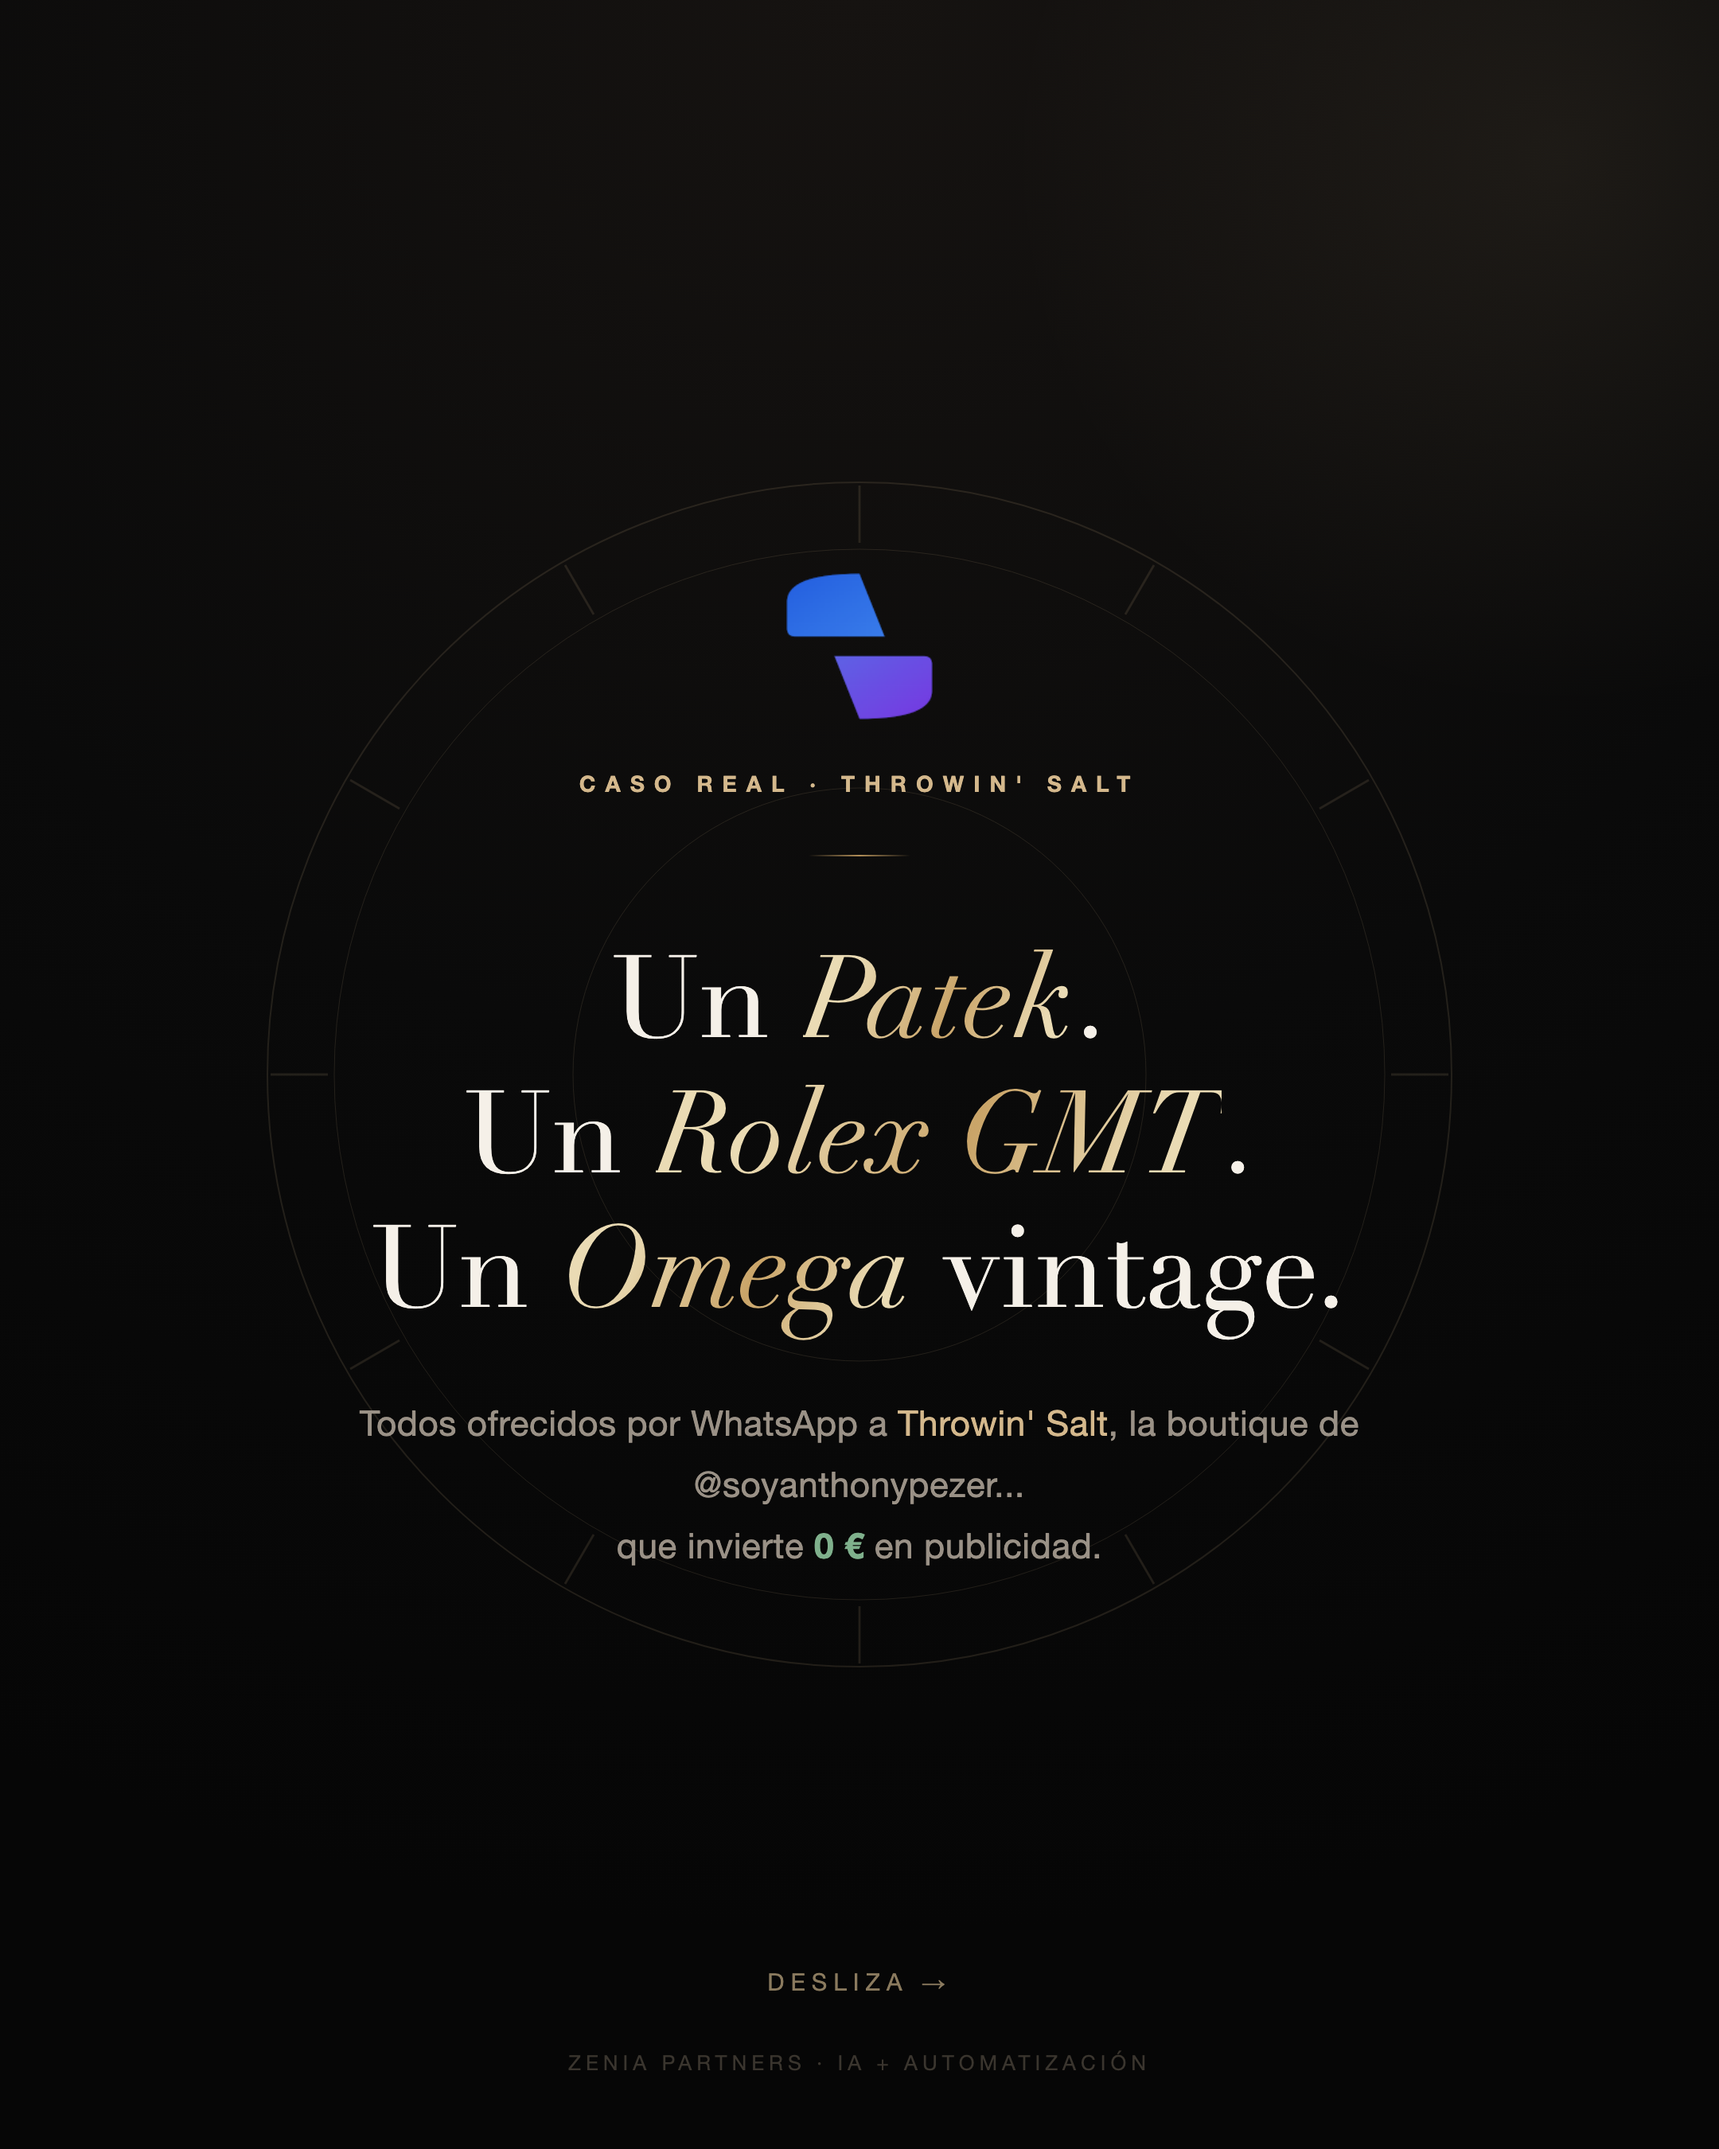
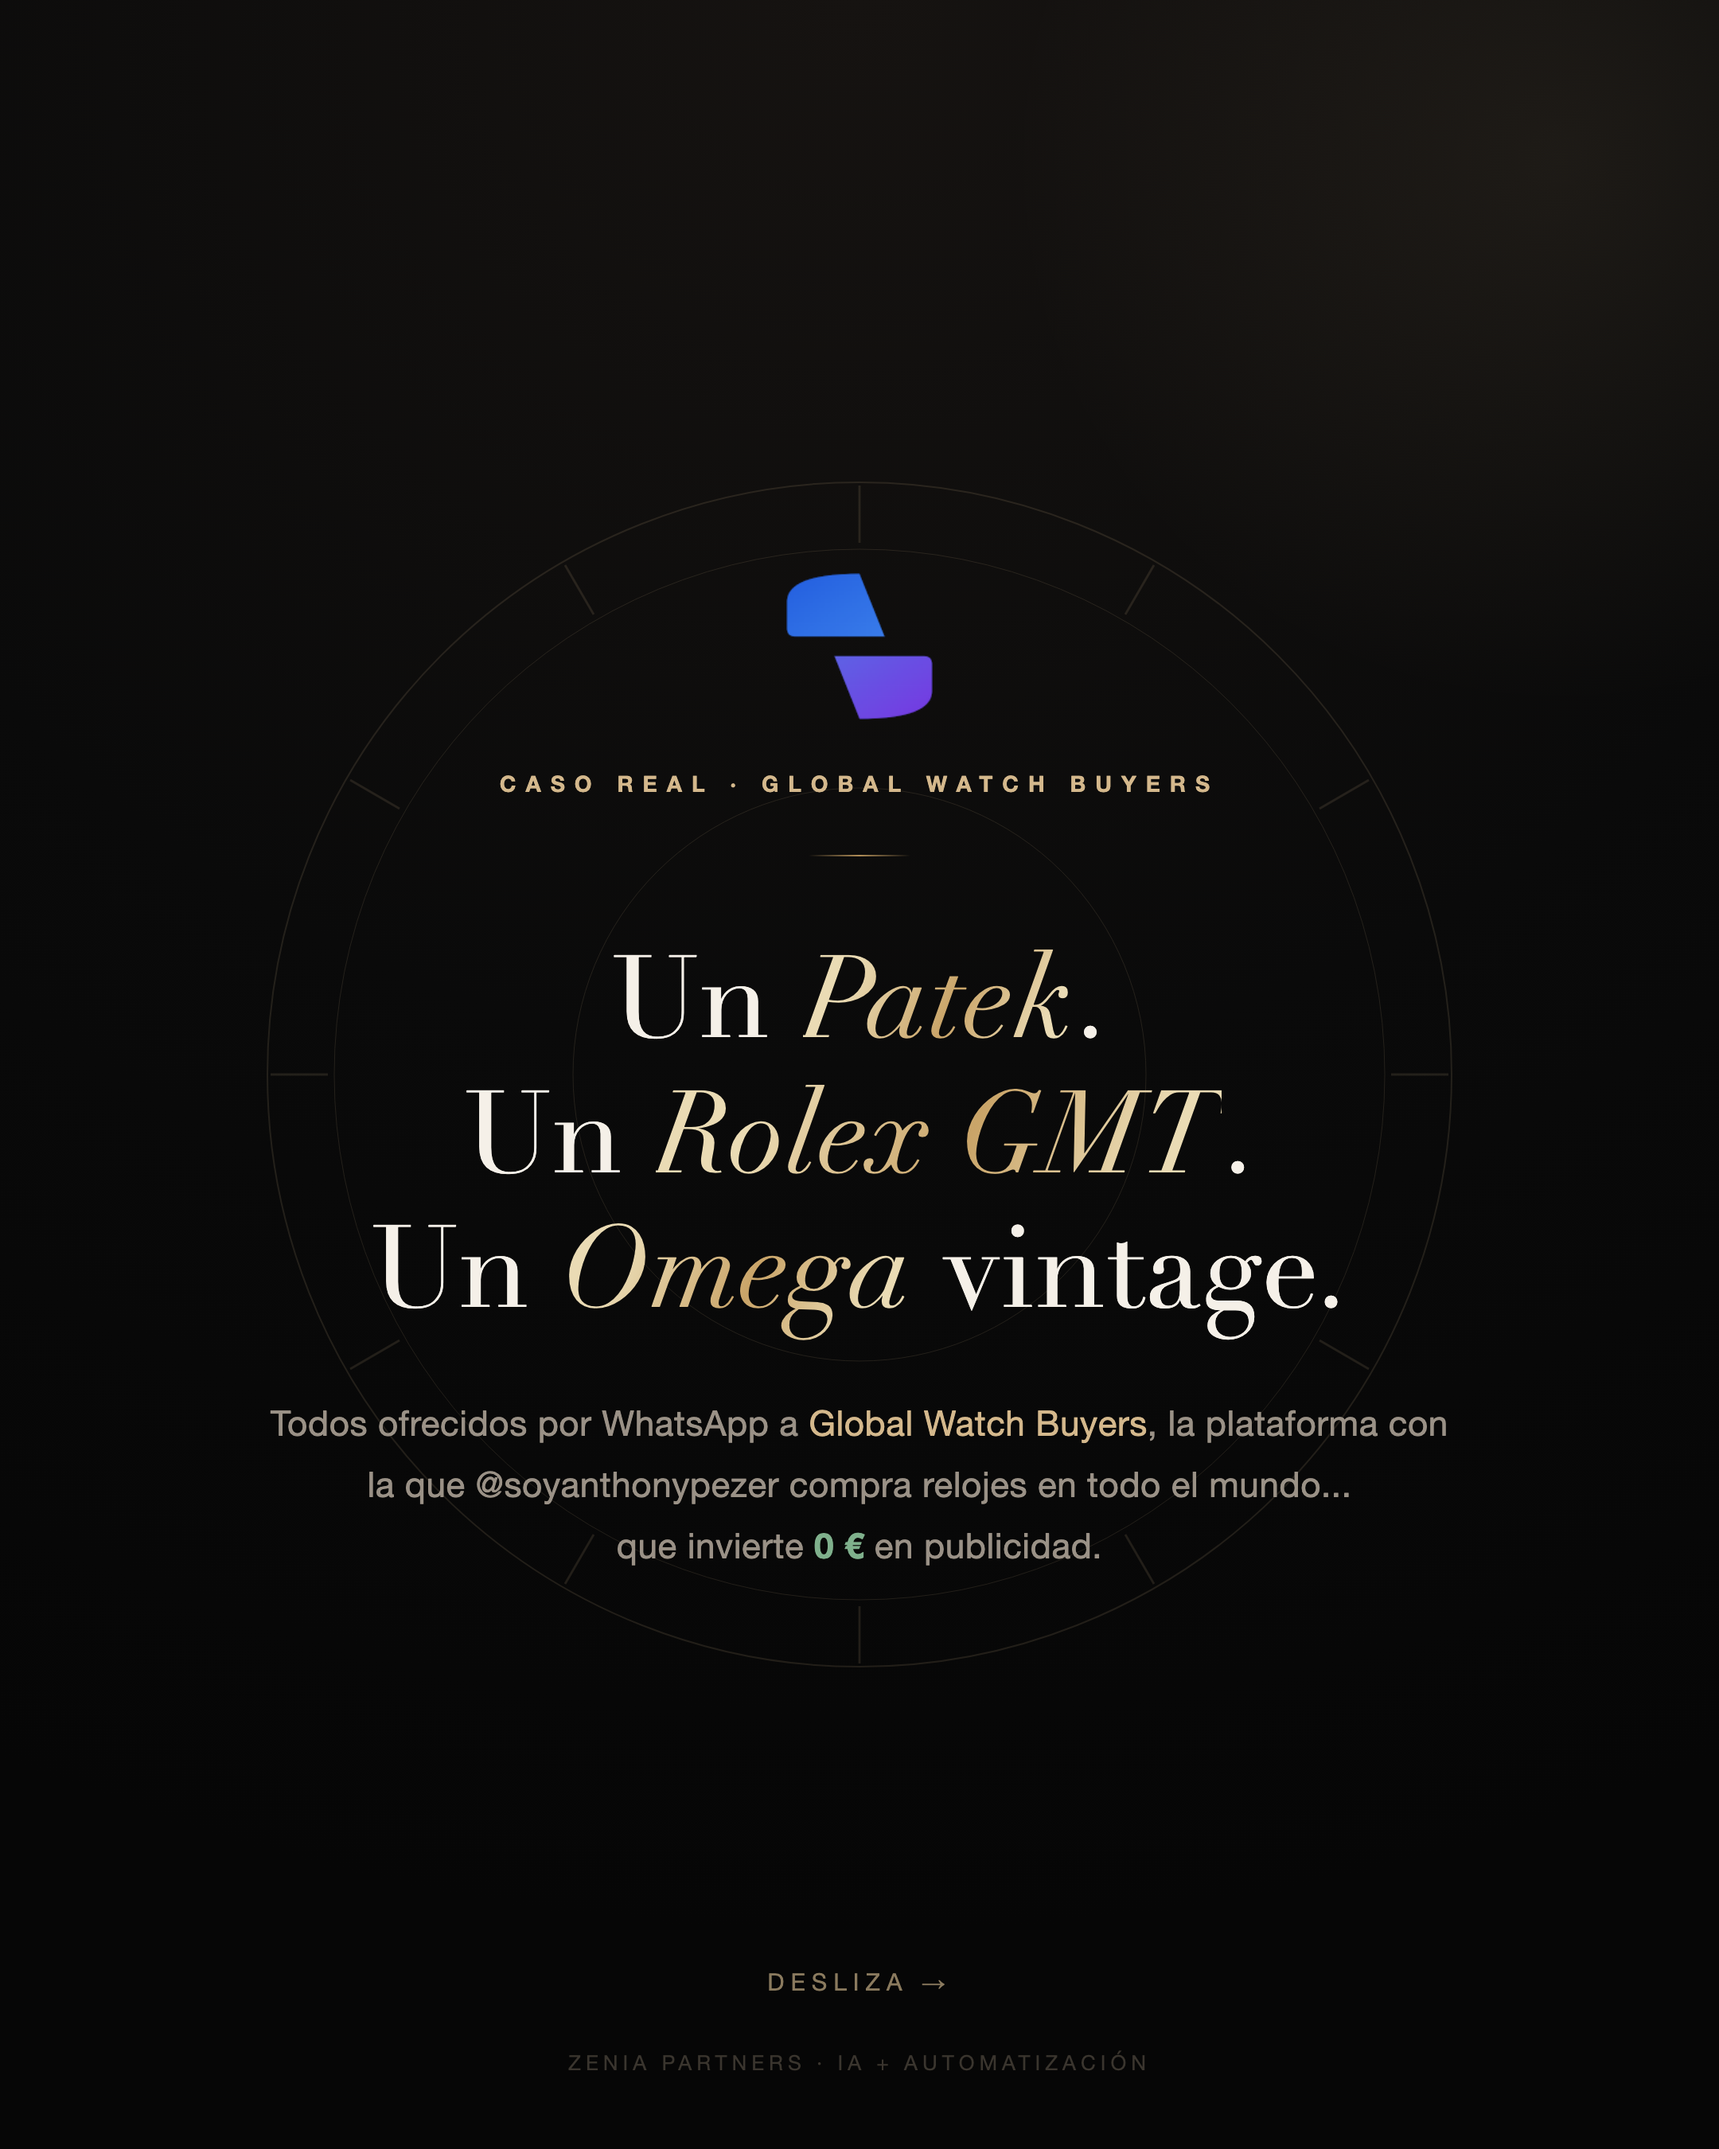
caso relojes v3: Global Watch Buyers (no Throwin' Salt)

diff --git a/posts/ig-caso-relojes-v3-slide1.html b/posts/ig-caso-relojes-v3-slide1.html
@@ -47,9 +47,9 @@
     <line x1='60' y1='565' x2='91' y2='547'/><line x1='700' y1='565' x2='669' y2='547'/>
   </g>
 </svg>
[2 lines of base64/hex data omitted]
   <div class="rule"></div>
   <div class="headline">Un <span class="gold">Patek</span>.<br>Un <span class="gold">Rolex GMT</span>.<br>Un <span class="gold">Omega</span> vintage.</div>
-  <div class="subline">Todos ofrecidos por WhatsApp a <span style='color:#d4b88c'>Throwin' Salt</span>, la boutique de @soyanthonypezer...<br>que invierte <b>0 &euro;</b> en publicidad.</div>
+  <div class="subline">Todos ofrecidos por WhatsApp a <span style='color:#d4b88c'>Global Watch Buyers</span>, la plataforma con la que @soyanthonypezer compra relojes en todo el mundo...<br>que invierte <b>0 &euro;</b> en publicidad.</div>
   <div class="arrow">Desliza &rarr;</div>
 <div class='footer-tag'>Zenia Partners &middot; IA + Automatizaci&oacute;n</div></div></body></html>

diff --git a/posts/ig-caso-relojes-v3-slide3.html b/posts/ig-caso-relojes-v3-slide3.html
@@ -41,5 +41,5 @@
     <div class="stat-card"><div class="stat-value green">0 &euro;</div><div class="stat-label">En anuncios &middot; 100% Google<br>(SEO internacional)</div></div>
     <div class="stat-card"><div class="stat-value">24/7</div><div class="stat-label">Cualificaci&oacute;n autom&aacute;tica<br>y aviso al m&oacute;vil del due&ntilde;o</div></div>
   </div>
-  <div class="note">Resultados r&aacute;pidos y 100% org&aacute;nicos: sin un euro en anuncios, los clientes encuentran Throwin' Salt en Google, la IA los cualifica y Anthony (@soyanthonypezer) solo atiende a quien merece la pena.</div>
+  <div class="note">Resultados r&aacute;pidos y 100% org&aacute;nicos: sin un euro en anuncios, los vendedores encuentran Global Watch Buyers en Google, la IA los cualifica y Anthony (@soyanthonypezer) solo atiende a quien merece la pena.</div>
 <div class='footer-tag'>Zenia Partners &middot; IA + Automatizaci&oacute;n</div></div></body></html>
